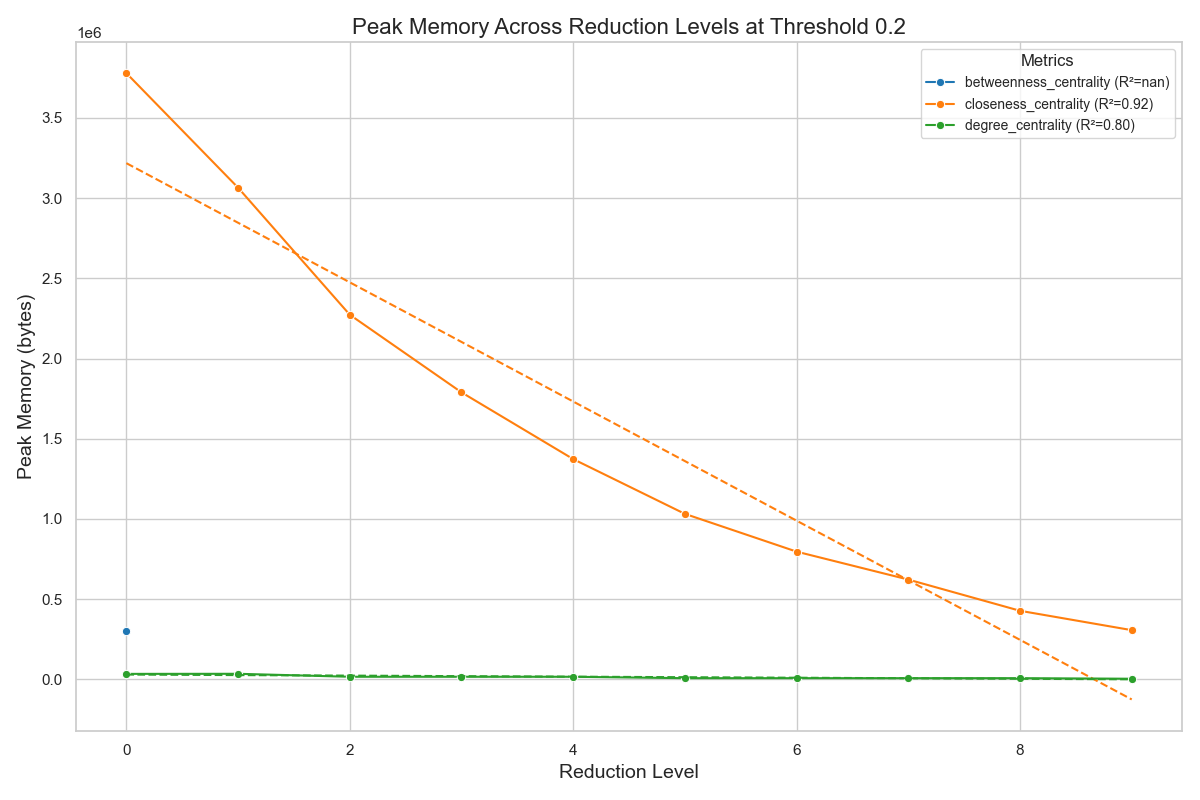
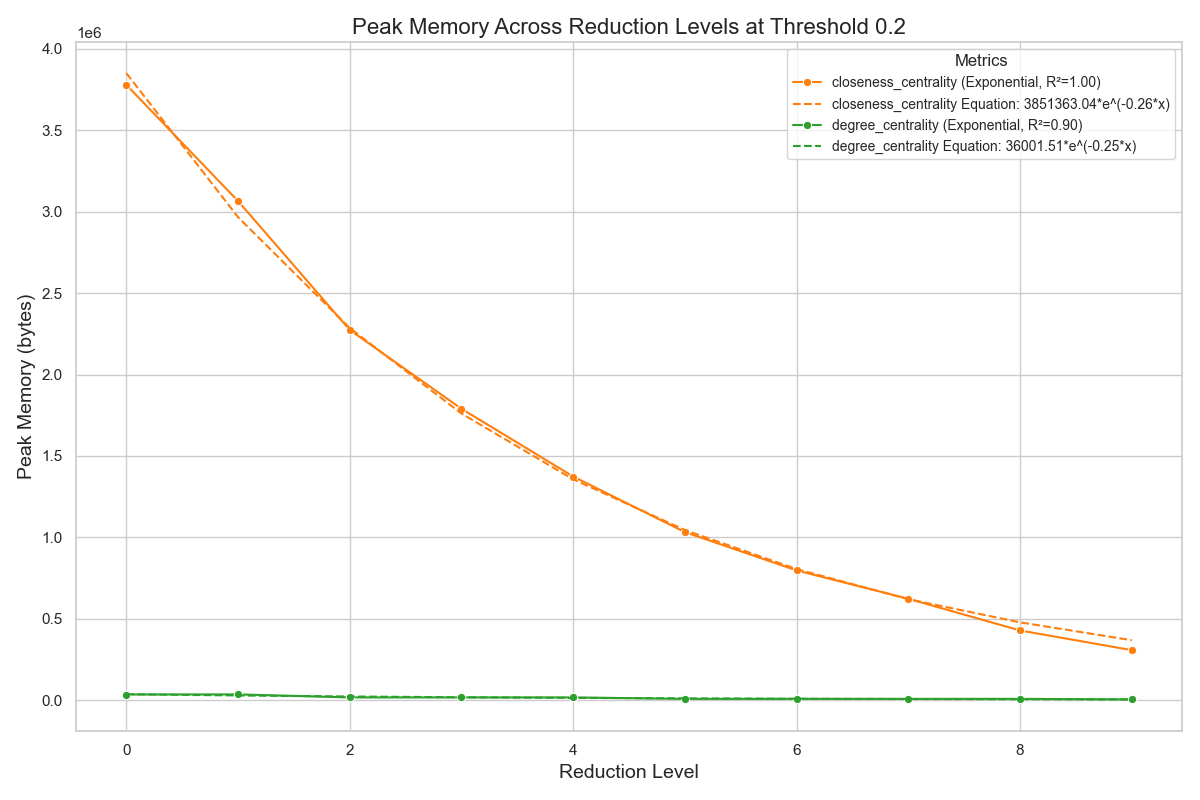
linear vs exponential fits

diff --git a/analysis.py b/analysis.py
@@ -159,6 +159,7 @@ for metric in df['metric'].unique():
         plt.savefig(f'./visualizations/{y}_Across_Reduction_Levels_for_{metric}.png')
         #plt.show()
 
+"""
 import os
 import matplotlib.pyplot as plt
 import seaborn as sns
@@ -209,6 +210,103 @@ for threshold in df['threshold'].unique():
             linestyle="--", color=metric_colors[metric]
         )
 
+    # Add titles and labels
+    title = f"Peak Memory Across Reduction Levels at Threshold {threshold}"
+    plt.title(title, fontsize=16)
+    plt.xlabel("Reduction Level", fontsize=14)
+    plt.ylabel("Peak Memory (bytes)", fontsize=14)
+    plt.legend(title="Metrics", loc="best", fontsize=10)
+    plt.tight_layout()
+    
+    # Save and show the plot
+    safe_title = title.replace(' ', '_').replace('/', '_')
+    plt.savefig(f'./visualizations/{safe_title}.png')
+    plt.show()
+"""
+
+import os
+import numpy as np
+import matplotlib.pyplot as plt
+import seaborn as sns
+from sklearn.metrics import r2_score
+from scipy.optimize import curve_fit
+
+# Ensure the directory exists for saving plots
+os.makedirs('./visualizations/', exist_ok=True)
+
+# Set up the plot style
+sns.set(style="whitegrid")
+
+# Define models
+def logarithmic(x, a, b):
+    return a * np.log(x + 1) + b  # Add 1 to avoid log(0)
+
+def exponential(x, a, b):
+    return a * np.exp(b * x)
+
+# Iterate through thresholds
+for threshold in df['threshold'].unique():
+    plt.figure(figsize=(12, 8))
+    
+    # Filter data for the current threshold
+    threshold_data = df[df['threshold'] == threshold]
+    
+    # Set up a color palette for metrics
+    palette = sns.color_palette("tab10", n_colors=threshold_data['metric'].nunique())
+    metric_colors = dict(zip(threshold_data['metric'].unique(), palette))
+    
+    for metric in threshold_data['metric'].unique():
+        metric_data = threshold_data[threshold_data['metric'] == metric]
+        
+        # Fit logarithmic and exponential models
+        X = metric_data['reduction_level'].values
+        y_values = metric_data['peak_memory'].values
+        
+        try:
+            # Logarithmic fit
+            log_params, _ = curve_fit(logarithmic, X, y_values)
+            log_y_pred = logarithmic(X, *log_params)
+            log_r2 = r2_score(y_values, log_y_pred)
+            
+            # Exponential fit
+            exp_params, _ = curve_fit(exponential, X, y_values, maxfev=10000)
+            exp_y_pred = exponential(X, *exp_params)
+            exp_r2 = r2_score(y_values, exp_y_pred)
+            
+            # Choose the best model
+            if log_r2 > exp_r2:
+                best_fit = "Logarithmic"
+                best_params = log_params
+                best_r2 = log_r2
+                best_y_pred = log_y_pred
+                equation = f"{log_params[0]:.2f}*ln(x) + {log_params[1]:.2f}"
+            else:
+                best_fit = "Exponential"
+                best_params = exp_params
+                best_r2 = exp_r2
+                best_y_pred = exp_y_pred
+                equation = f"{exp_params[0]:.2f}*e^({exp_params[1]:.2f}*x)"
+            
+            # Plot data
+            sns.lineplot(
+                x="reduction_level",
+                y="peak_memory",
+                data=metric_data,
+                marker="o",
+                label=f"{metric} ({best_fit}, R²={best_r2:.2f})",
+                color=metric_colors[metric]
+            )
+            
+            # Add trendline
+            plt.plot(
+                X, best_y_pred, 
+                linestyle="--", color=metric_colors[metric],
+                label=f"{metric} Equation: {equation}"
+            )
+        
+        except Exception as e:
+            print(f"Could not fit models for {metric} at threshold {threshold}: {e}")
+    
     # Add titles and labels
     title = f"Peak Memory Across Reduction Levels at Threshold {threshold}"
     plt.title(title, fontsize=16)
